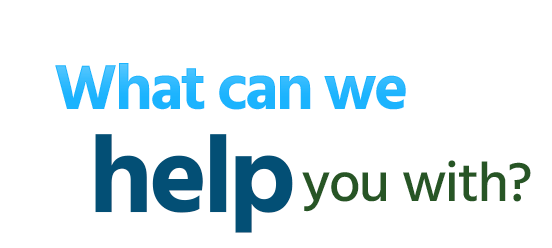
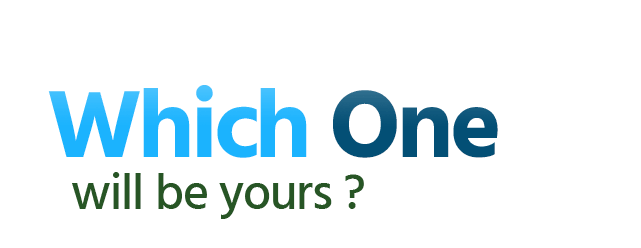
肌膚清潔與醫療保健Banner標題互換 #20170217

Changed region(s): [[0.0616, 0.254, 0.9855, 0.9597]]

diff --git a/tw/skin-hygiene.html b/tw/skin-hygiene.html
@@ -64,7 +64,7 @@ j=d.createElement(s),dl=l!='dataLayer'?'&l='+l:'';j.async=true;j.src=
                 <div id="banner-sub">
                     <!--<h1 class="animated fadeInUp"><a href="index.html" title="home">Twinble International Enterprise corp.</a></h1>
                     <h2 class="animated fadeInUp">An Expert in The Fled of 橡膠 Technology</h2>-->
-                    <h3 class="sub-slogan-04 animated fadeInLeft">Which one will be yours?</h3>
+                    <h3 class="sub-slogan-04 animated fadeInLeft">What can we help you with?</h3>
                     <div class="sub-visiven sv-01 animated fadeIn">our service:Skin Hygiene,Health Care and Life Fun</div>
                 </div>
             </header>

diff --git a/skin-hygiene.html b/skin-hygiene.html
@@ -68,7 +68,7 @@ j=d.createElement(s),dl=l!='dataLayer'?'&l='+l:'';j.async=true;j.src=
                 <div id="banner-sub">
                     <!--<h1 class="animated fadeInUp"><a href="index.html" title="home">Twinble International Enterprise corp.</a></h1>
                     <h2 class="animated fadeInUp">An Expert in The Fled of Rubber Technology</h2>-->
-                    <h3 class="sub-slogan-04 animated fadeInLeft">Which one will be yours?</h3>
+                    <h3 class="sub-slogan-04 animated fadeInLeft">What can we help you with?</h3>
                     <div class="sub-visiven sv-01 animated fadeIn">our service:Skin Hygiene,Health Care and LOHAS</div>
                 </div>
             </header>
